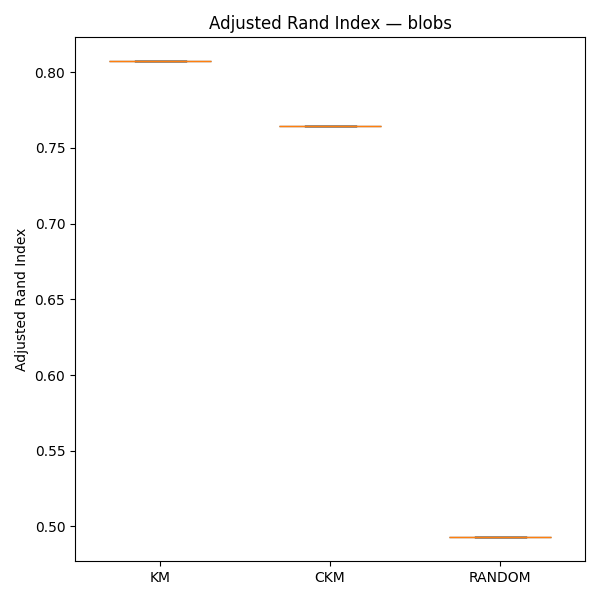
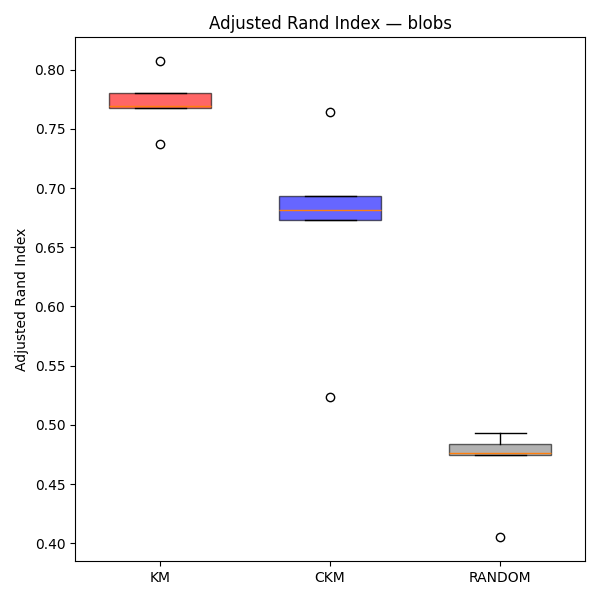
last commit

diff --git a/figs/figs_generation.py b/figs/figs_generation.py
@@ -12,7 +12,7 @@ from clustering import *
 
 
 SEED = 12
-EXP = 1
+EXP = 5
 np.random.seed(SEED)
 
 METRICS: dict[str: dict[str: dict[str: list[float]]]] = {
